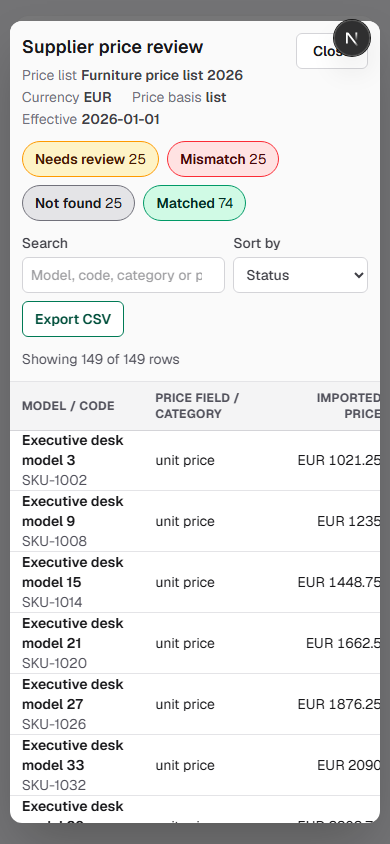
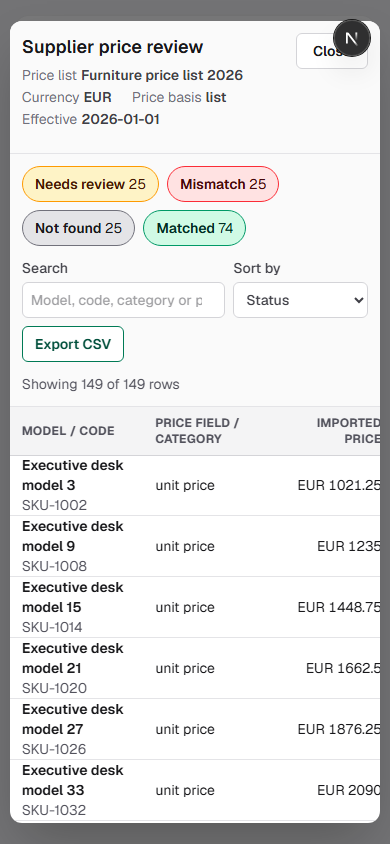
fix(products): shorter Supplier price review header at narrow widths
Filters, search and sort now scroll away with the table below sm; the table header stays sticky.

diff --git a/components/products/smart-setup-supplier-review-dialog.tsx b/components/products/smart-setup-supplier-review-dialog.tsx
@@ -63,29 +63,14 @@ export function SupplierReviewDialog({ fresh, stale, selected, onClose, initialS
   const onKeyDown = (event: KeyboardEvent<HTMLDivElement>) => {
     if (event.key === "Escape") { event.stopPropagation(); onClose(); return; }
     if (event.key !== "Tab" || !panelRef.current) return;
-    const items = Array.from(panelRef.current.querySelectorAll<HTMLElement>(FOCUSABLE)); // keeps focus inside the dialog
+    const items = Array.from(panelRef.current.querySelectorAll<HTMLElement>(FOCUSABLE)).filter((el) => el.getClientRects().length > 0); // keeps focus inside the dialog
     if (!items.length) { event.preventDefault(); return; }
     const firstItem = items[0], lastItem = items[items.length - 1], active = document.activeElement;
     if (event.shiftKey && (active === firstItem || active === panelRef.current)) { event.preventDefault(); lastItem.focus(); }
     else if (!event.shiftKey && active === lastItem) { event.preventDefault(); firstItem.focus(); }
   };
 
-  return <div role="dialog" aria-modal="true" aria-labelledby={titleId} className="fixed inset-0 z-[80] flex items-center justify-center bg-zinc-950/55 p-[2.5vw]">
-    <div ref={panelRef} tabIndex={-1} onKeyDown={onKeyDown} className="flex h-[95dvh] w-[95vw] min-w-0 flex-col overflow-hidden rounded-xl bg-white text-zinc-900 shadow-2xl outline-none">
-      <header className="shrink-0 space-y-3 border-b border-zinc-200 bg-zinc-50 p-3 sm:p-4">
-        <div className="flex items-start justify-between gap-3">
-          <div className="min-w-0">
-            <h2 id={titleId} className="text-lg font-semibold">Supplier price review</h2>
-            {fresh ? <dl className="mt-1 flex flex-wrap gap-x-5 gap-y-0.5 text-sm text-zinc-700">
-              <div className="flex gap-1"><dt className="text-zinc-500">Price list</dt><dd className="font-semibold">{fresh.output.source.title}</dd></div>
-              <div className="flex gap-1"><dt className="text-zinc-500">Currency</dt><dd className="font-semibold">{fresh.output.source.currency}</dd></div>
-              <div className="flex gap-1"><dt className="text-zinc-500">Price basis</dt><dd className="font-semibold">{fresh.output.source.basis}</dd></div>
-              {selected?.effectiveFrom ? <div className="flex gap-1"><dt className="text-zinc-500">Effective</dt><dd className="font-semibold">{selected.effectiveFrom}</dd></div> : null}
-            </dl> : null}
-          </div>
-          <button type="button" onClick={onClose} className="h-9 shrink-0 rounded-md border border-zinc-300 bg-white px-4 text-sm font-semibold text-zinc-900 hover:bg-zinc-100">Close</button>
-        </div>
-        {fresh ? <>
+  const controls = fresh ? <>
           <div className="flex flex-wrap items-center gap-2">
             <div role="group" aria-label="Show rows with these statuses" className="flex flex-wrap gap-2">
               {REVIEW_STATUS_CHIPS.map((s) => {
@@ -106,11 +91,30 @@ export function SupplierReviewDialog({ fresh, stale, selected, onClose, initialS
             <button type="button" disabled={!shown.length} onClick={() => downloadCsv(shown, fresh.output.source.title)} className="h-9 rounded-md border border-emerald-700 bg-white px-3 text-sm font-semibold text-emerald-900 disabled:cursor-not-allowed disabled:opacity-50">Export CSV</button>
           </div>
           <p className="text-sm text-zinc-600" aria-live="polite">Showing {shown.length} of {allRows.length} rows</p>
-        </> : null}
+  </> : null;
+
+  return <div role="dialog" aria-modal="true" aria-labelledby={titleId} className="fixed inset-0 z-[80] flex items-center justify-center bg-zinc-950/55 p-[2.5vw]">
+    <div ref={panelRef} tabIndex={-1} onKeyDown={onKeyDown} className="flex h-[95dvh] w-[95vw] min-w-0 flex-col overflow-hidden rounded-xl bg-white text-zinc-900 shadow-2xl outline-none">
+      <header className="shrink-0 space-y-3 border-b border-zinc-200 bg-zinc-50 p-3 sm:p-4">
+        <div className="flex items-start justify-between gap-3">
+          <div className="min-w-0">
+            <h2 id={titleId} className="text-lg font-semibold">Supplier price review</h2>
+            {fresh ? <dl className="mt-1 flex flex-wrap gap-x-5 gap-y-0.5 text-sm text-zinc-700">
+              <div className="flex gap-1"><dt className="text-zinc-500">Price list</dt><dd className="font-semibold">{fresh.output.source.title}</dd></div>
+              <div className="flex gap-1"><dt className="text-zinc-500">Currency</dt><dd className="font-semibold">{fresh.output.source.currency}</dd></div>
+              <div className="flex gap-1"><dt className="text-zinc-500">Price basis</dt><dd className="font-semibold">{fresh.output.source.basis}</dd></div>
+              {selected?.effectiveFrom ? <div className="flex gap-1"><dt className="text-zinc-500">Effective</dt><dd className="font-semibold">{selected.effectiveFrom}</dd></div> : null}
+            </dl> : null}
+          </div>
+          <button type="button" onClick={onClose} className="h-9 shrink-0 rounded-md border border-zinc-300 bg-white px-4 text-sm font-semibold text-zinc-900 hover:bg-zinc-100">Close</button>
+        </div>
+        {controls ? <div className="hidden space-y-3 sm:block">{controls}</div> : null}
       </header>
       {!fresh ? <div className="p-4 text-sm">
         <p className="rounded-md border border-amber-300 bg-amber-50 p-3 text-amber-900">{stale ? "The draft or selection changed after the last check, so this result is out of date and is no longer shown. Close this window and run Check Supplier Prices again." : "There is no supplier price check to show. Close this window and run Check Supplier Prices first."}</p>
       </div> : <div ref={scrollRef} tabIndex={0} role="region" aria-label="Supplier price rows" onScroll={(e) => setScrollTop(e.currentTarget.scrollTop)} className="min-h-0 flex-1 overflow-auto">
+        {/* On narrow screens the filters live in the scroll area so they scroll away; the table header stays sticky. */}
+        <div className="space-y-3 border-b border-zinc-200 bg-zinc-50 p-3 sm:hidden">{controls}</div>
         <table className="w-full min-w-[960px] border-collapse text-left text-sm">
           <thead className="sticky top-0 z-10 bg-zinc-100 text-xs uppercase tracking-wide text-zinc-600 shadow-[0_1px_0_#d4d4d8]">
             <tr><th scope="col" className="px-3 py-2">Model / code</th><th scope="col" className="px-3 py-2">Price field / category</th><th scope="col" className="px-3 py-2 text-right">Imported price</th><th scope="col" className="px-3 py-2 text-right">Supplier price</th><th scope="col" className="px-3 py-2 text-right">Difference</th><th scope="col" className="px-3 py-2">Status</th><th scope="col" className="px-3 py-2">Reason / evidence</th></tr>
